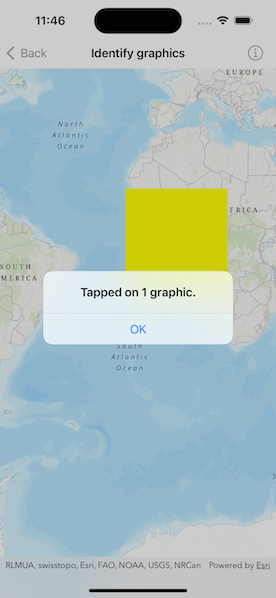
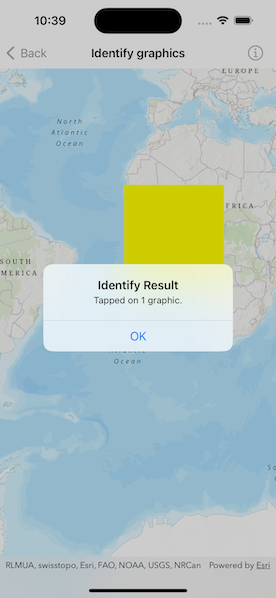
Update identifying.
https://github.com/Esri/arcgis-maps-sdk-swift-samples/pull/283#discussion_r1352881963

diff --git a/Shared/Samples/Identify graphics/IdentifyGraphicsView.swift b/Shared/Samples/Identify graphics/IdentifyGraphicsView.swift
@@ -42,12 +42,15 @@ struct IdentifyGraphicsView: View {
         return graphicsOverlay
     }()
     
-    /// A Boolean value indicating whether the graphic alert is showing.
-    @State private var isShowingGraphicAlert = false
+    /// The tap location's screen point used in the identify operation.
+    @State private var tapScreenPoint: CGPoint?
     
-    /// The text shown in the graphic alert that shows the alert when changed.
-    @State private var graphicAlertText = "" {
-        didSet { isShowingGraphicAlert = graphicAlertText.isNotEmpty }
+    /// A Boolean value indicating whether to show identify result alert.
+    @State private var isShowingIdentifyResultAlert = false
+    
+    /// The message shown in the identify result alert.
+    @State private var identifyResultMessage = "" {
+        didSet { isShowingIdentifyResultAlert = identifyResultMessage.isNotEmpty }
     }
     
     /// A Boolean value indicating whether to show an error alert.
@@ -62,31 +65,40 @@ struct IdentifyGraphicsView: View {
         MapViewReader { mapViewProxy in
             MapView(map: map, graphicsOverlays: [graphicsOverlay])
                 .onSingleTapGesture { screenPoint, _ in
-                    Task {
-                        do {
-                            // Identify the screen point on the graphics overlay using the proxy.
-                            // Use `identifyGraphicsOverlays` instead if you need to identify on
-                            // all the graphics overlay present in the map view.
-                            let identifyResult = try await mapViewProxy.identify(
-                                on: graphicsOverlay,
-                                screenPoint: screenPoint,
-                                tolerance: 12
-                            )
-                            
-                            // Display an alert if a graphic was found at the screen point.
-                            if identifyResult.graphics.isNotEmpty {
-                                let postfix = identifyResult.graphics.count > 1 ? "s" : ""
-                                graphicAlertText = "Tapped on \(identifyResult.graphics.count) graphic\(postfix)."
-                            }
-                        } catch {
-                            // Show an error alert for an error throw while identifying.
-                            self.error = error
+                    tapScreenPoint = screenPoint
+                }
+                .task(id: tapScreenPoint) {
+                    guard let tapScreenPoint else { return }
+                    
+                    do {
+                        // Identify the screen point on the graphics overlay using the proxy.
+                        // Use `identifyGraphicsOverlays` instead if you need to identify on
+                        // all the graphics overlay present in the map view.
+                        let identifyResult = try await mapViewProxy.identify(
+                            on: graphicsOverlay,
+                            screenPoint: tapScreenPoint,
+                            tolerance: 12
+                        )
+                        
+                        // Display an alert if any graphics were found at the screen point.
+                        let graphics = identifyResult.graphics
+                        if graphics.isNotEmpty {
+                            let postfix = graphics.count > 1 ? "s" : ""
+                            identifyResultMessage = "Tapped on \(graphics.count) graphic\(postfix)."
                         }
+                    } catch {
+                        // Show an error alert for an error thrown while identifying.
+                        self.error = error
                     }
+                    
+                    self.tapScreenPoint = nil
                 }
-                .alert(graphicAlertText, isPresented: $isShowingGraphicAlert) {
-                    Button("OK") { }
-                }
+                .alert(
+                    "Identify Result",
+                    isPresented: $isShowingIdentifyResultAlert,
+                    actions: {},
+                    message: { Text(identifyResultMessage) }
+                )
                 .alert(isPresented: $isShowingErrorAlert, presentingError: error)
         }
     }
